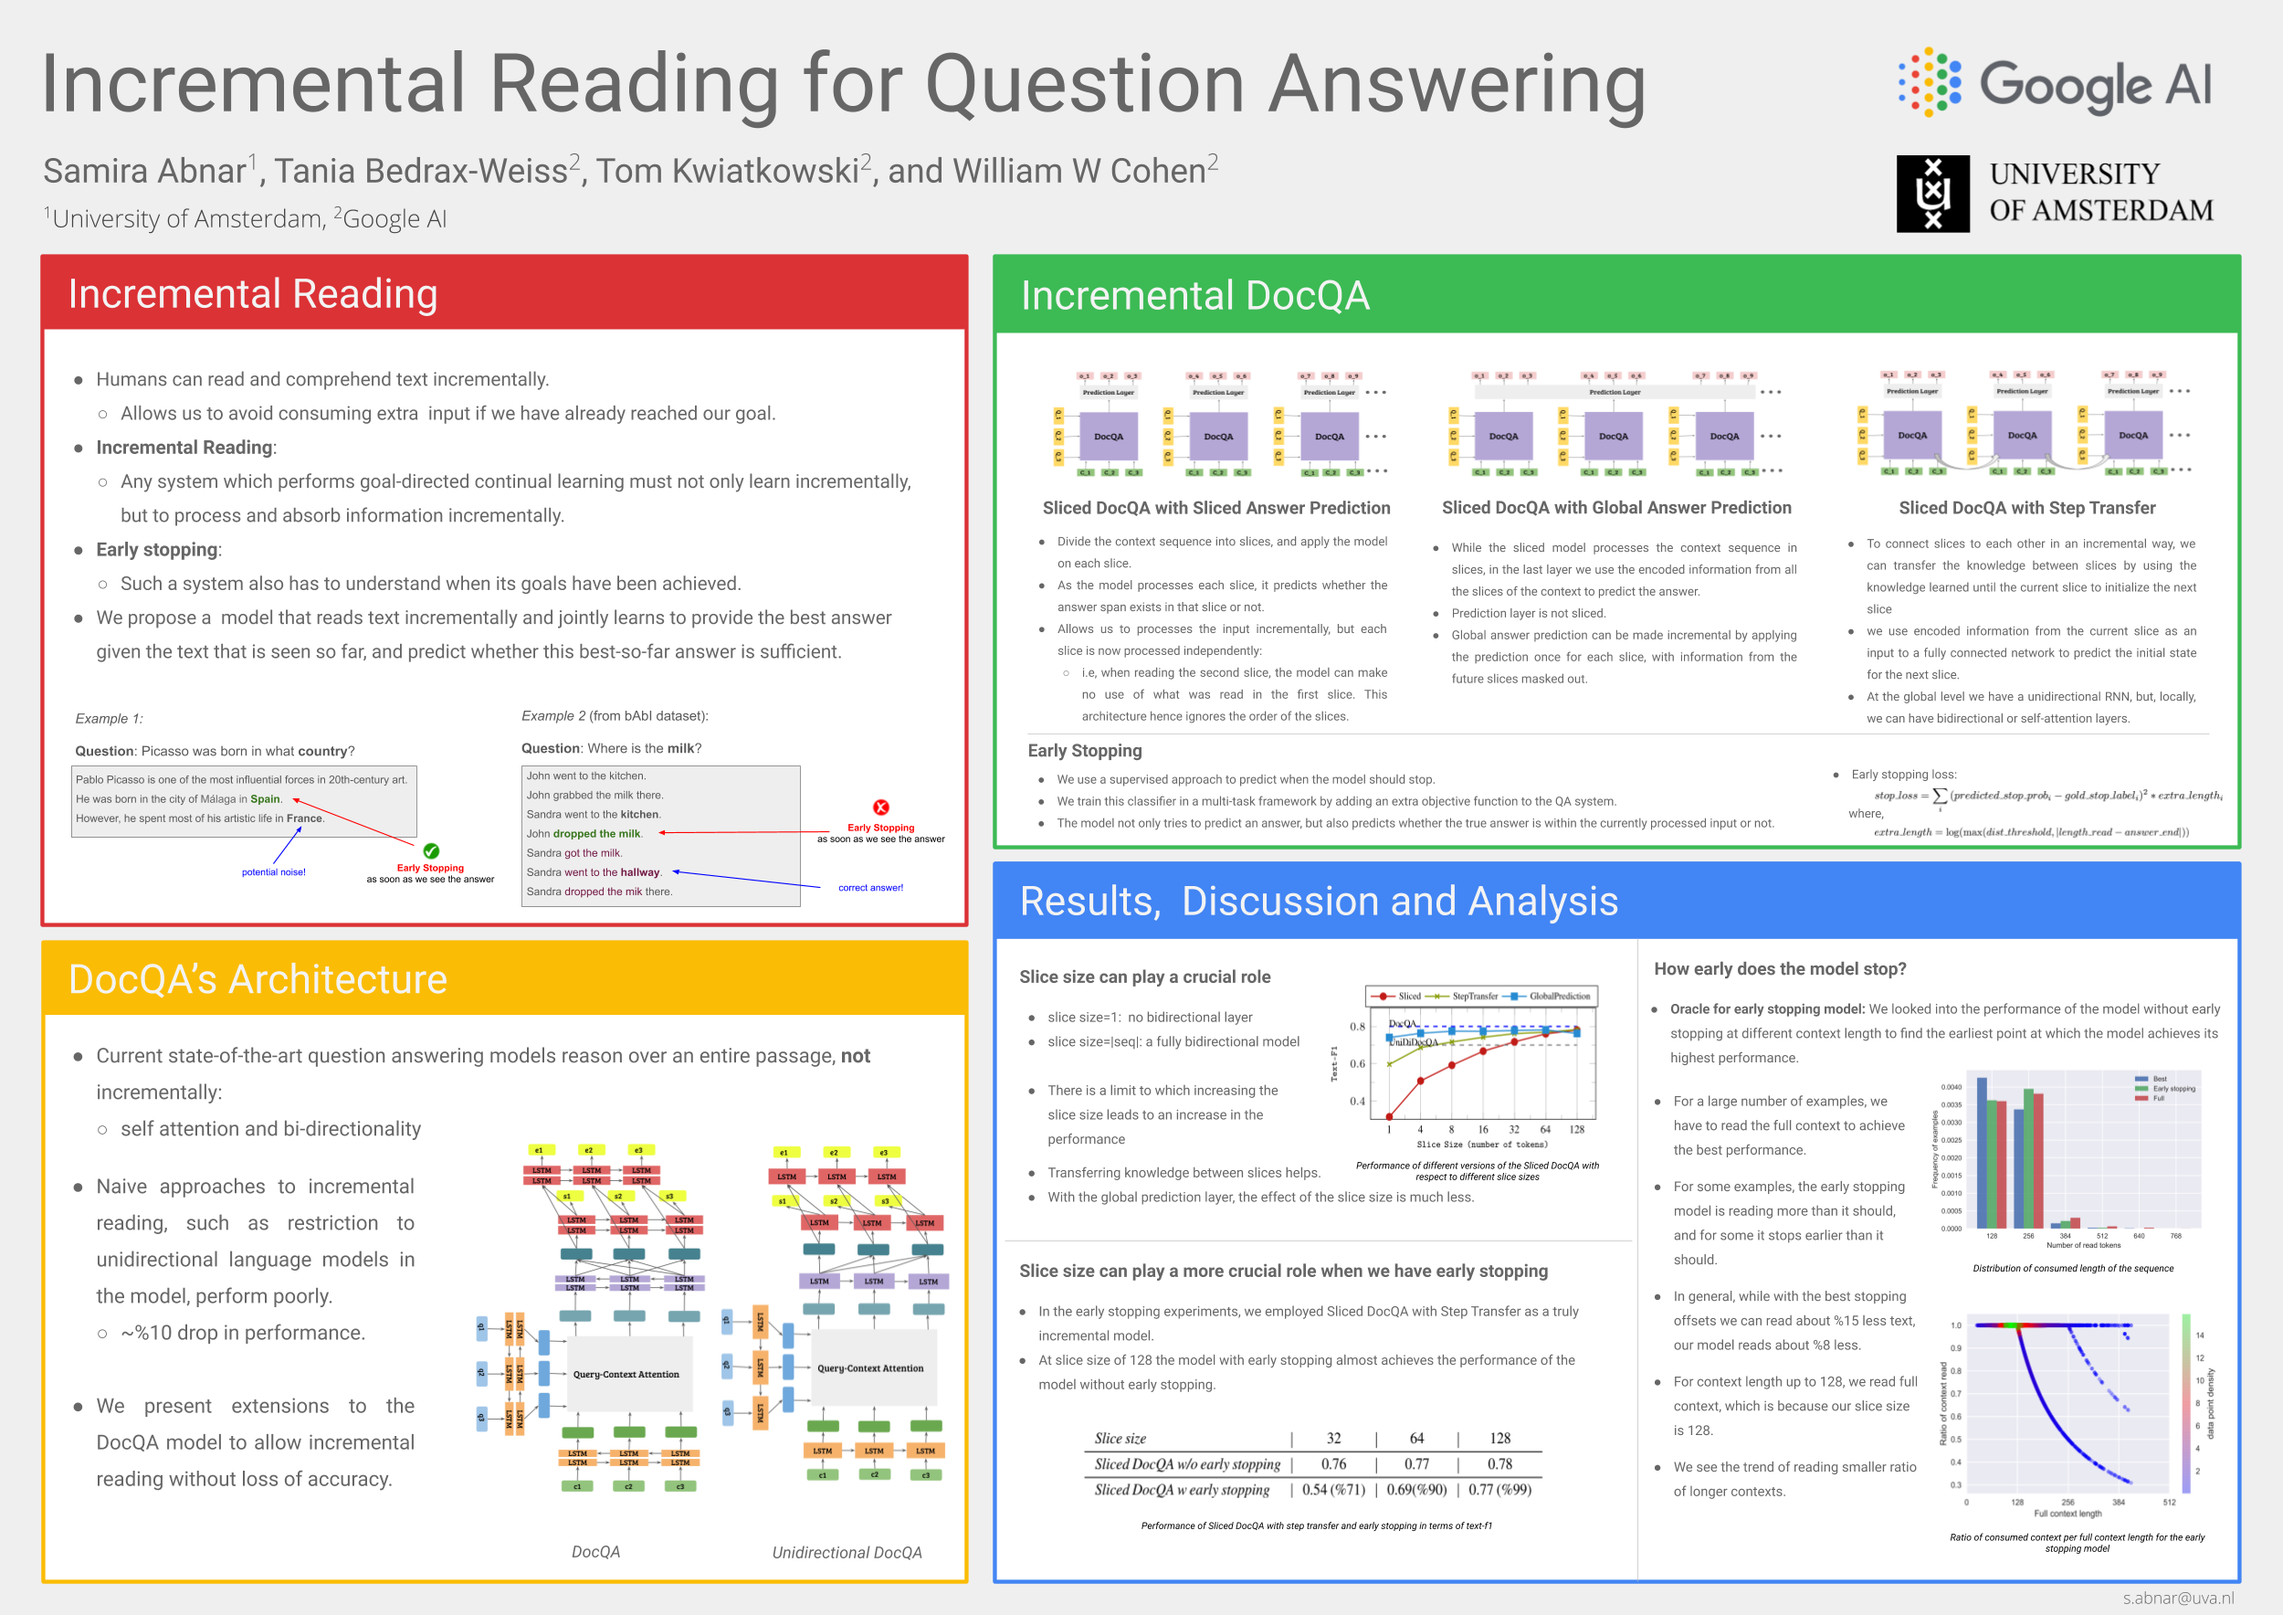
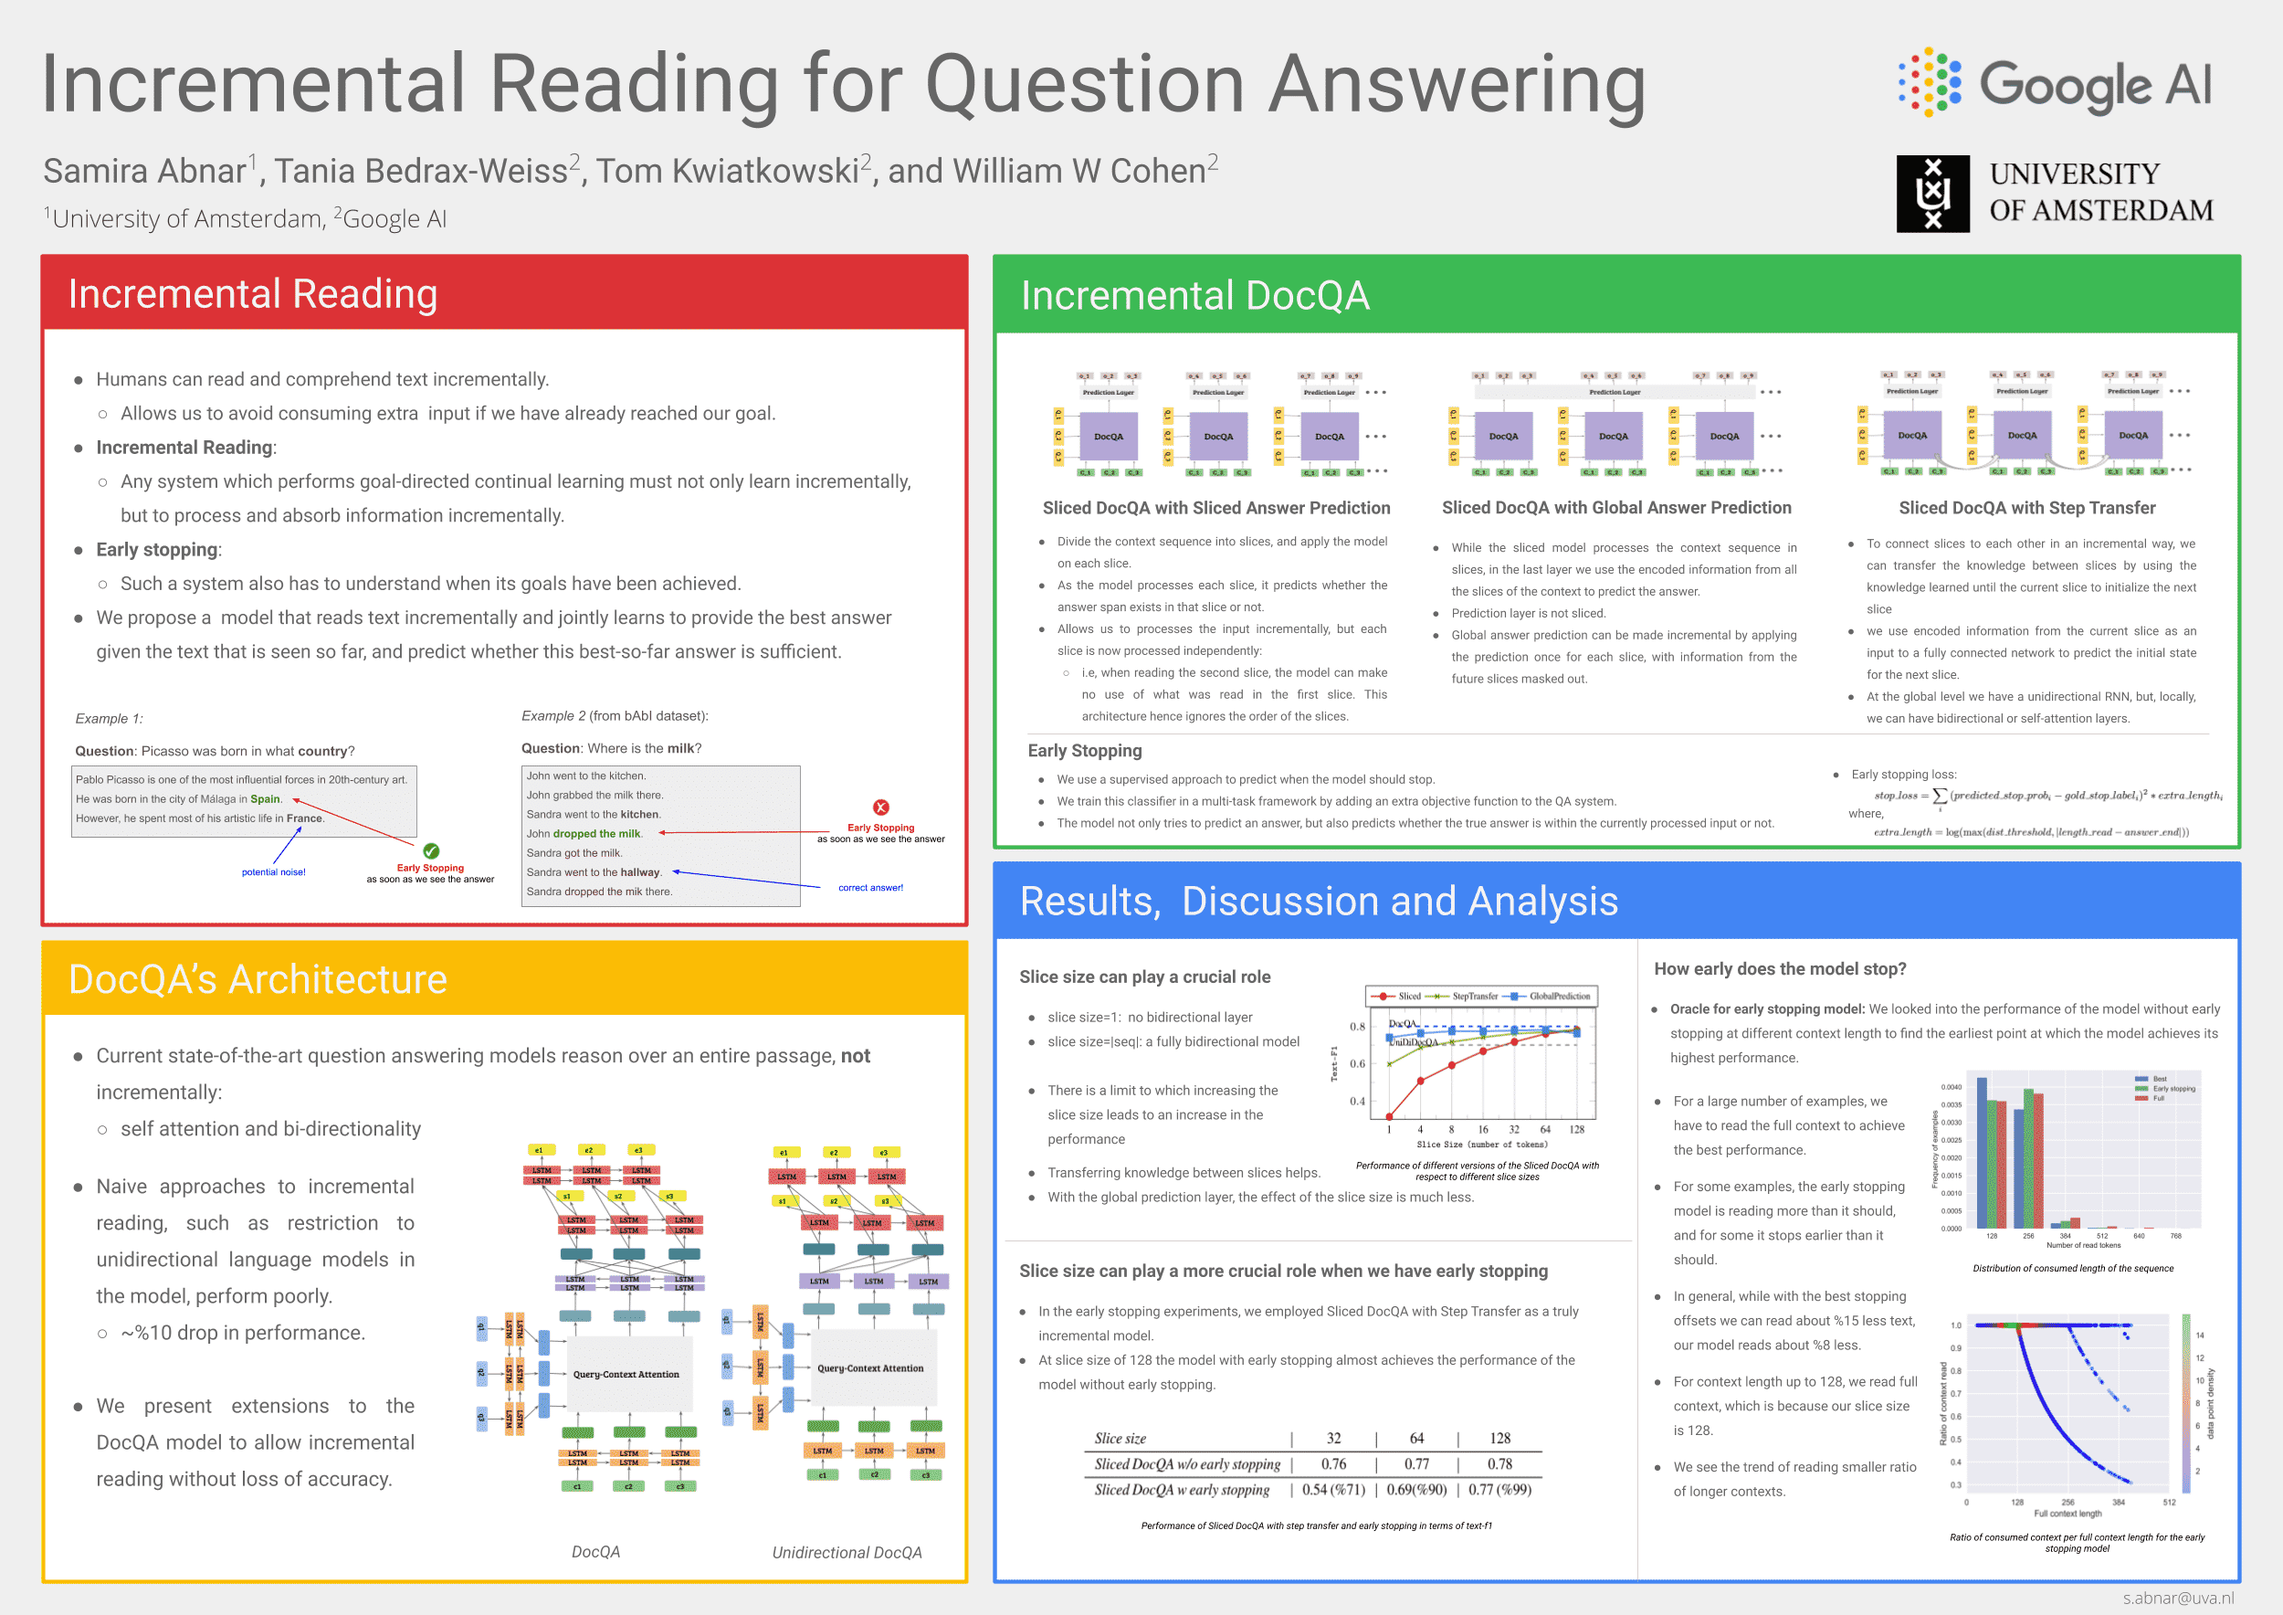
update posts

diff --git a/articles/2019-04/blackbox.html b/articles/2019-04/blackbox.html
@@ -21,7 +21,7 @@
   <meta name="twitter:description" content="We presented our paper, “Blackbox meets Blackbox&amp;#8282; Representational Similarity and Stability Analysis of Neural Language Models and Brains”, at Blackbox...">
   
     
-      <meta property="twitter:image" content="https://samiraabnar.github.io/img/posters/BB19_poster.png">
+      <meta property="twitter:image" content="https://samiraabnar.github.io/img/posters/BB19_poster_small.png">
     
   
 
@@ -32,7 +32,7 @@
   <meta property="og:description" content="We presented our paper, “Blackbox meets Blackbox&amp;#8282; Representational Similarity and Stability Analysis of Neural Language Models and Brains”, at Blackbox...">
   
     
-      <meta property="og:image" content="https://samiraabnar.github.io/img/posters/BB19_poster.png">
+      <meta property="og:image" content="https://samiraabnar.github.io/img/posters/BB19_poster_small.png">
     
   
   <title>Blackbox Meets Blackbox | Samira Abnar</title>
@@ -163,7 +163,7 @@
 <div class="post-image-feature">
   <img class="feature-image" src=
   
-  "https://samiraabnar.github.io/img/posters/BB19_poster.png"
+  "https://samiraabnar.github.io/img/posters/BB19_poster_small.png"
   
   alt="Blackbox Meets Blackbox feature image">
 

diff --git a/index.html b/index.html
@@ -338,7 +338,7 @@
     <div class="post-image-feature">
       <img src=
       
-      "https://samiraabnar.github.io/img/posters/BB19_poster.png"
+      "https://samiraabnar.github.io/img/posters/BB19_poster_small.png"
       
       alt="Blackbox Meets Blackbox feature image">
 
